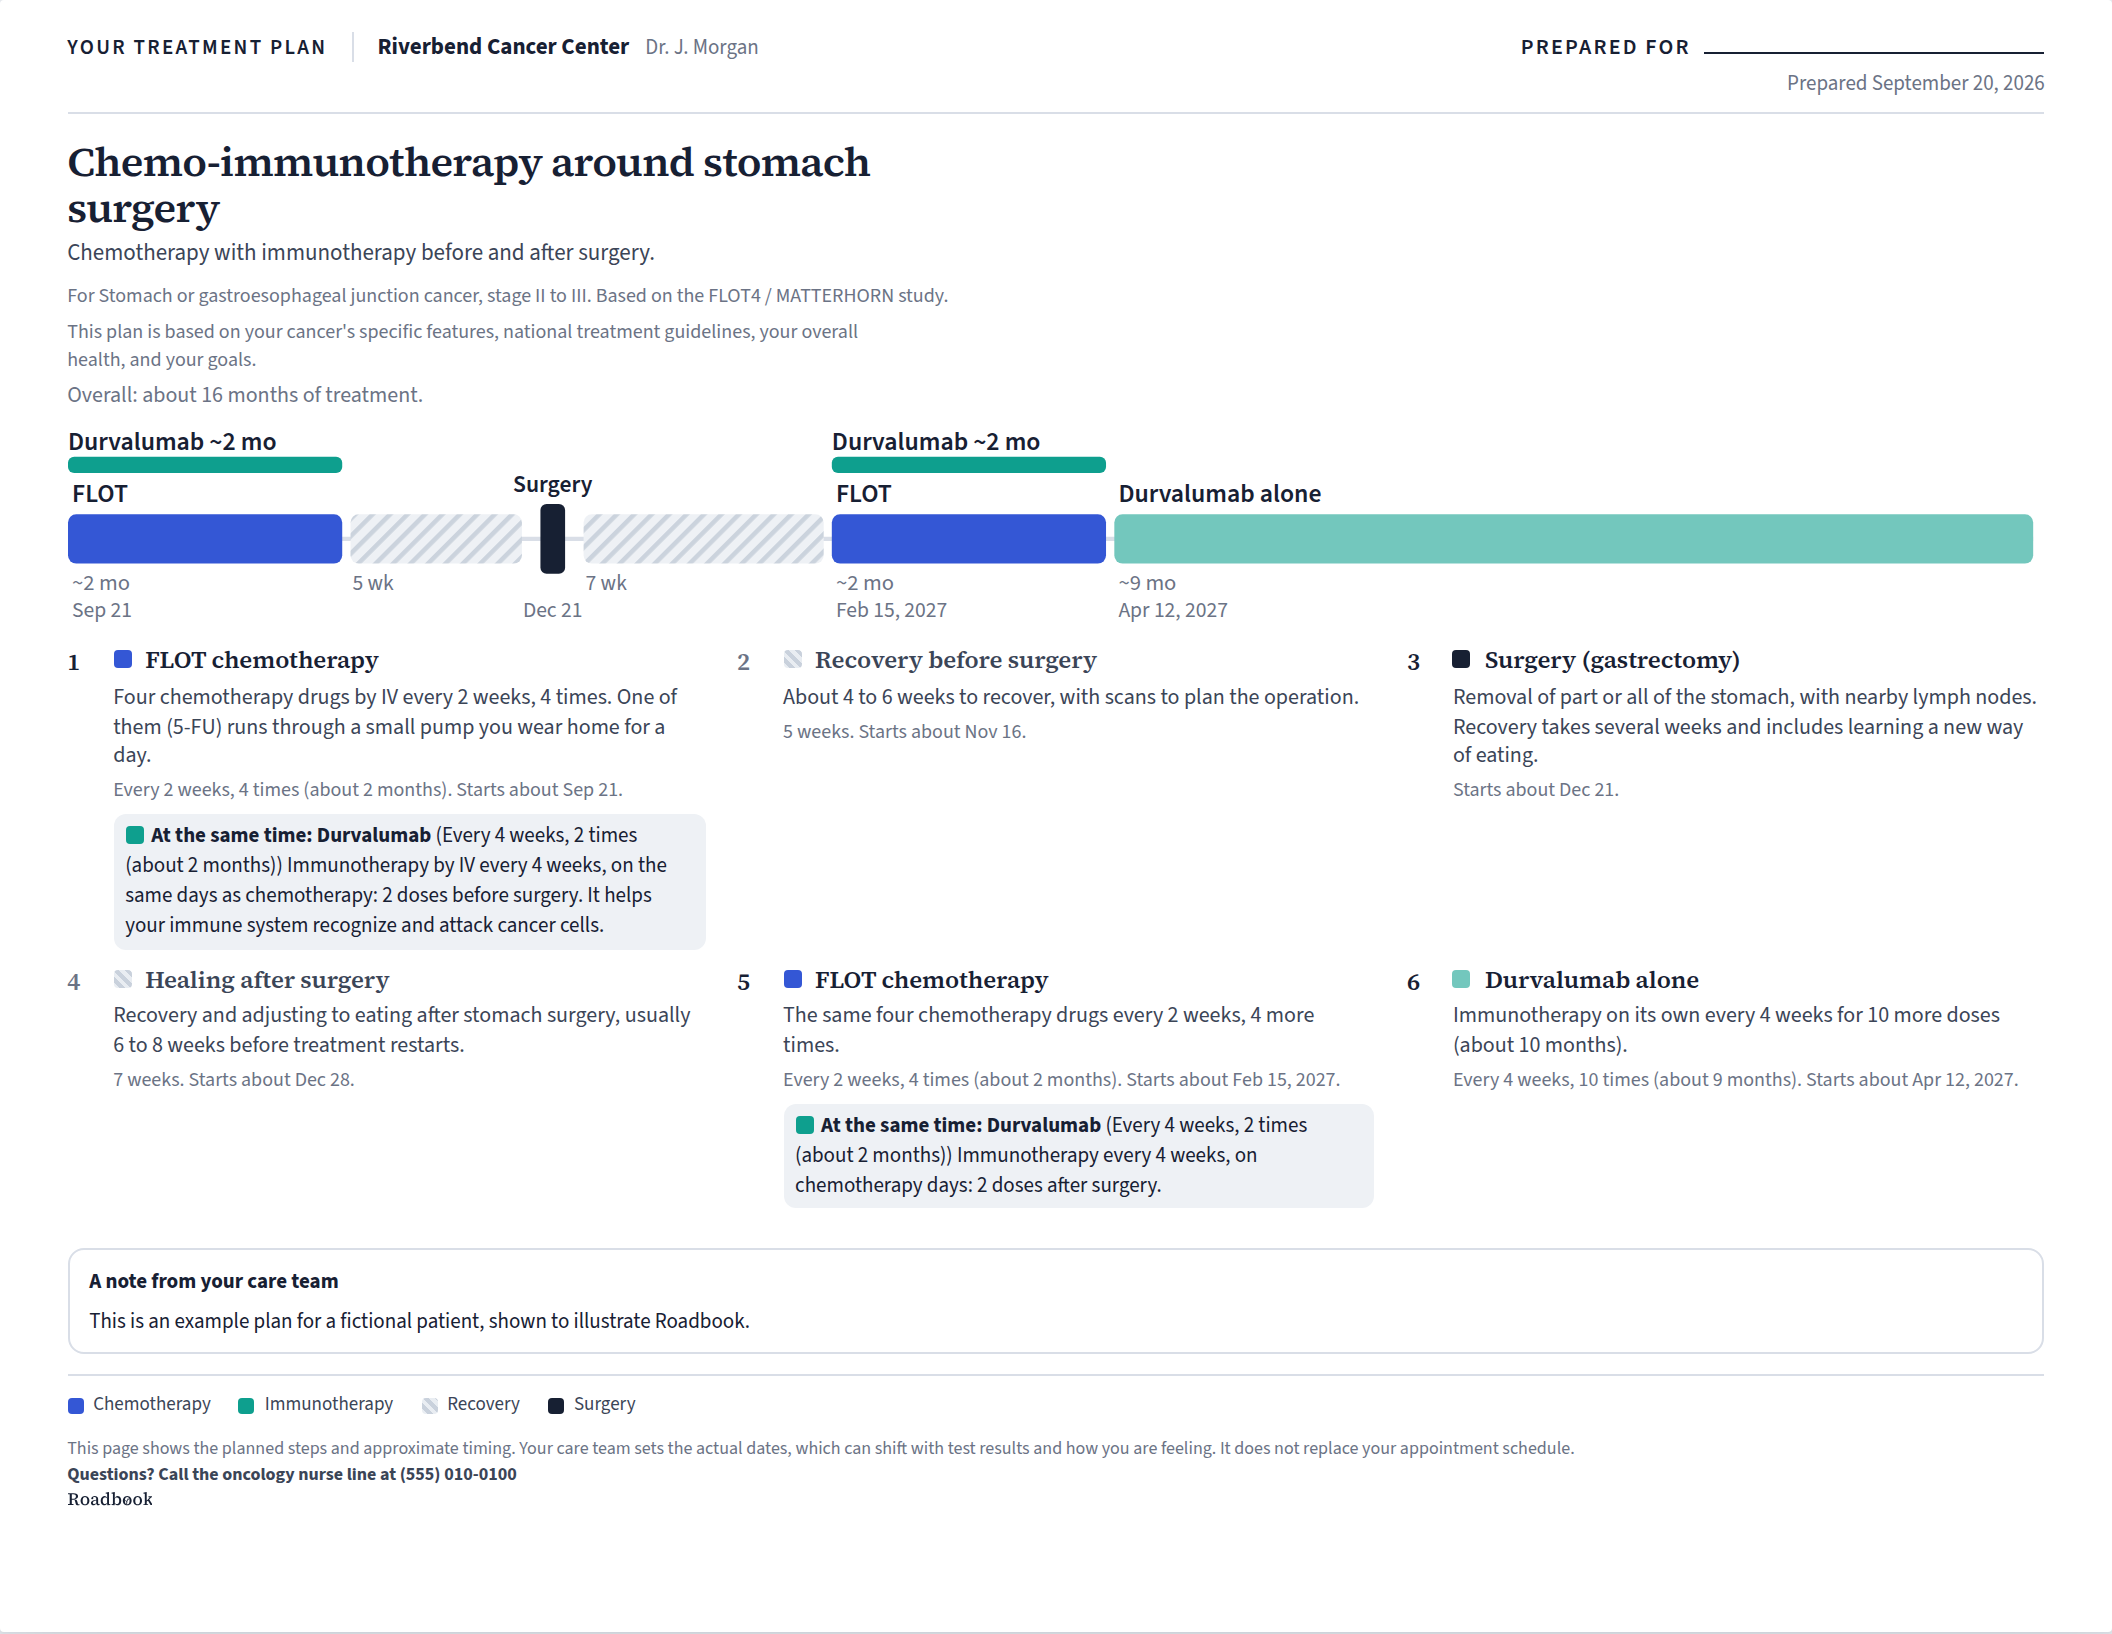
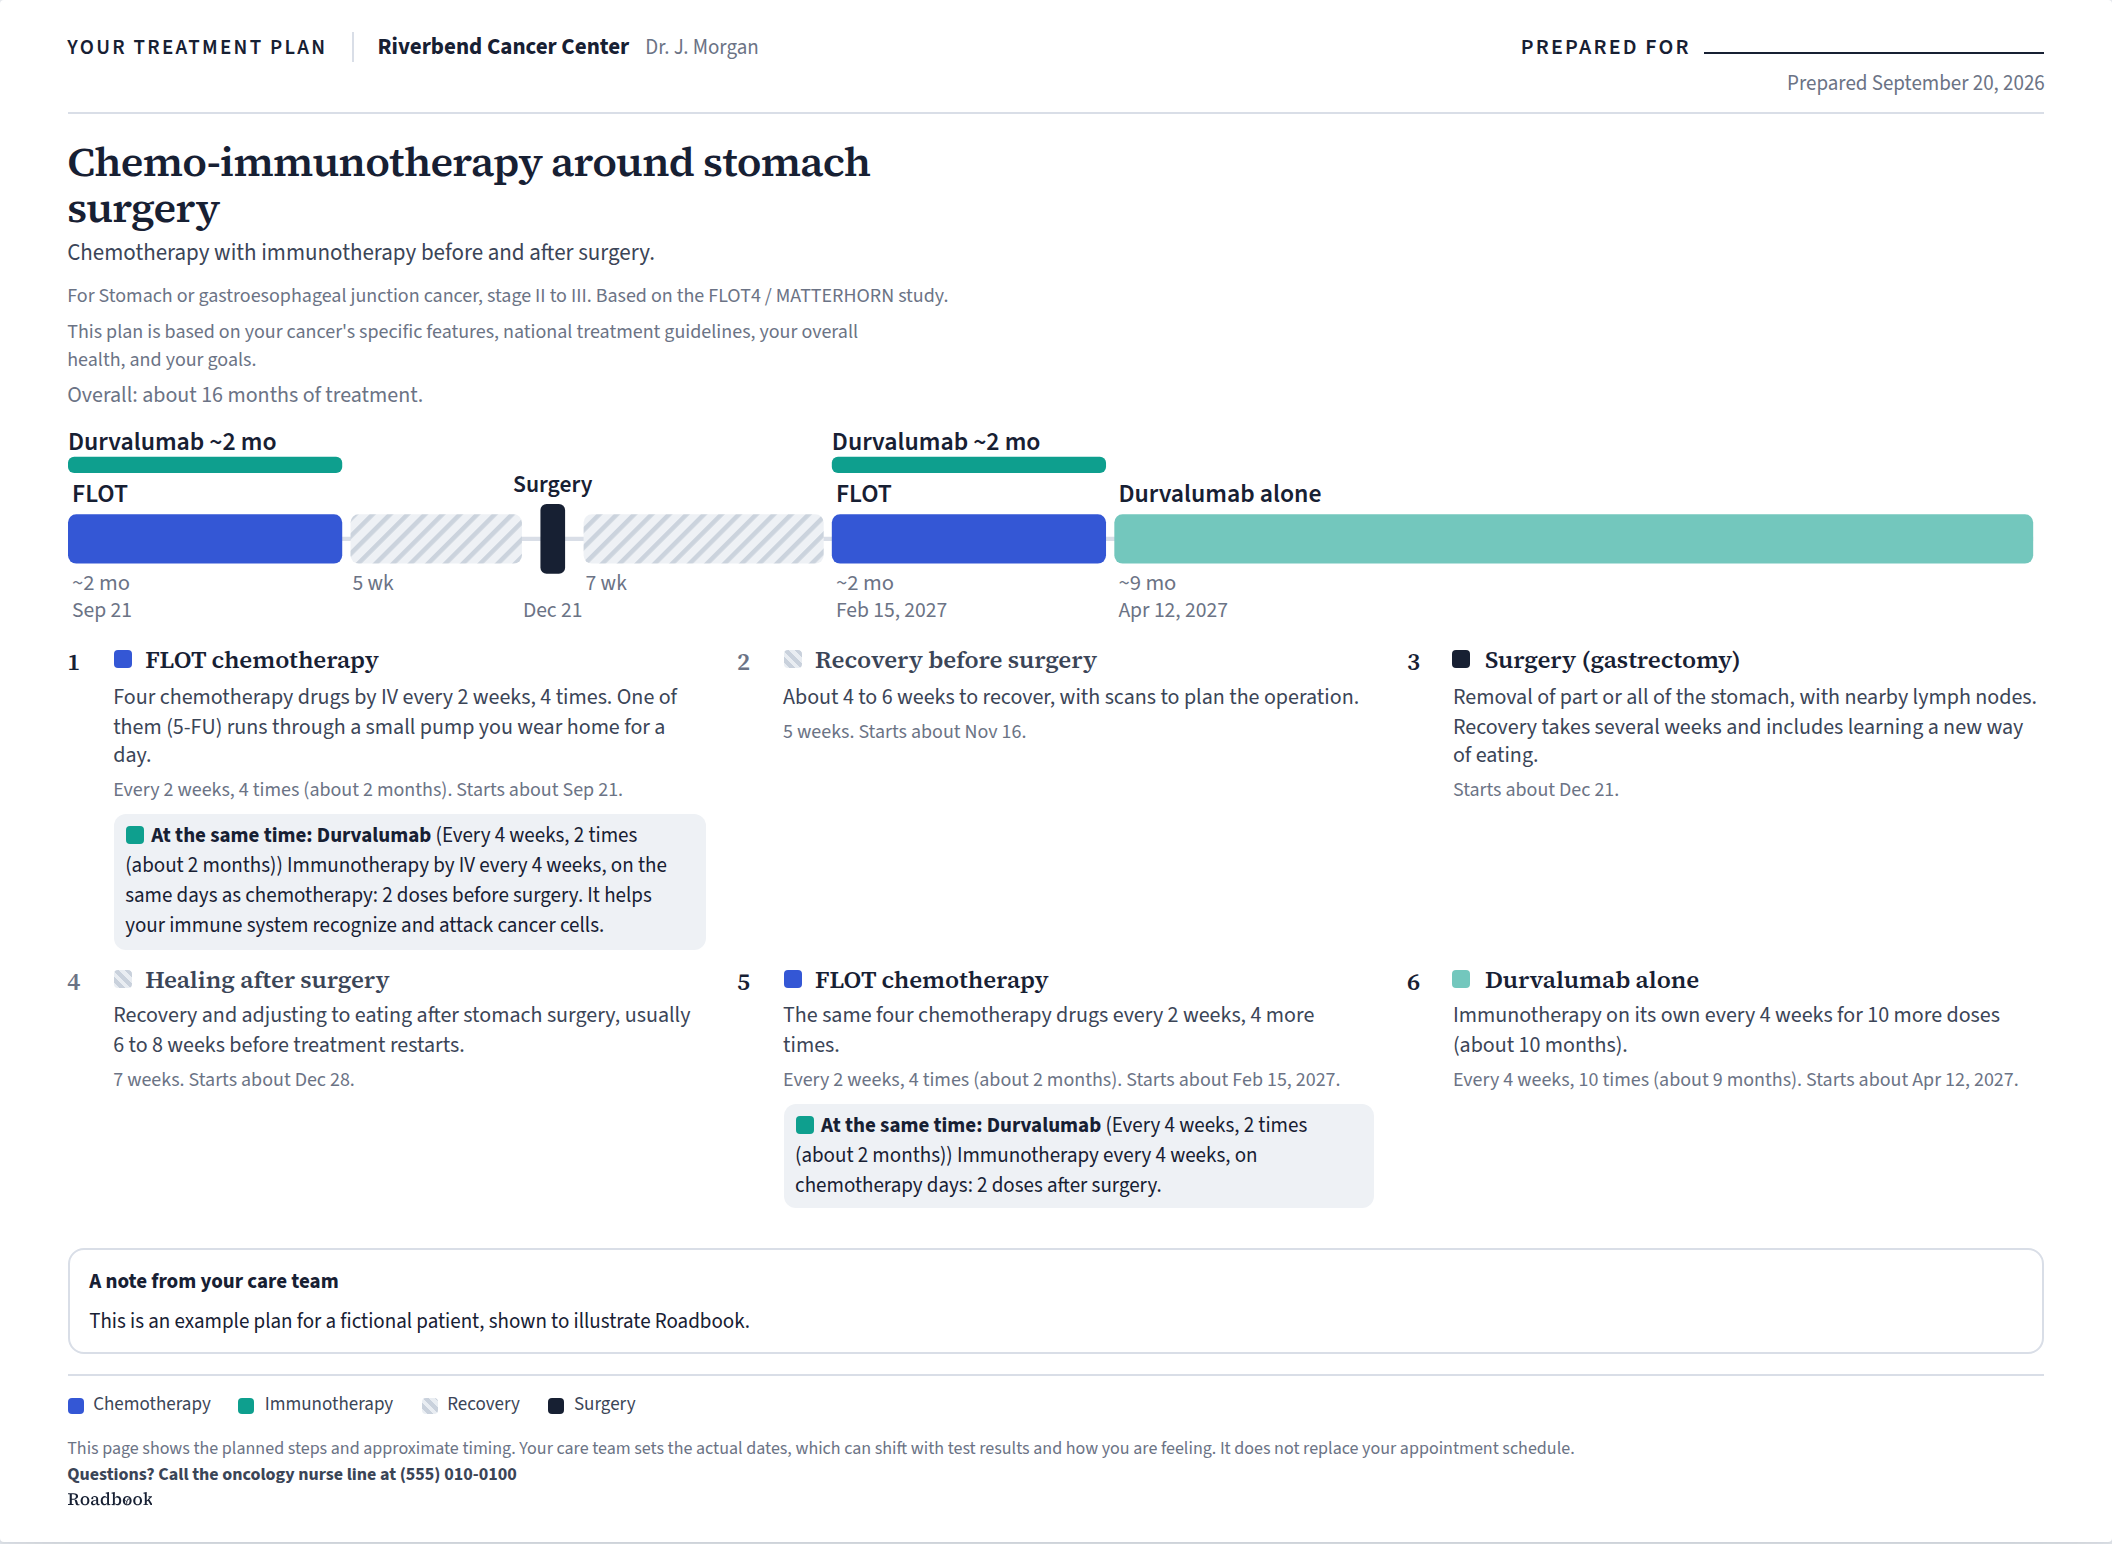
Landing page examples at full-size type
The hero images show the layout, not a print, so they are rendered at
100% type and whitespace with the page as tall as it needs to be
(KEYNOTE-522 was at its 79% print floor and read small). Map, columns
and everything else as the page view shows them. Declared sizes updated.

Claude-Session: https://claude.ai/code/session_01Y3Tfh74JNeao5syQge4XYJ

diff --git a/index.html b/index.html
@@ -40,9 +40,9 @@
       <button type="button" role="tab" id="hstab-2" aria-controls="hs-2" aria-selected="false" data-i="2">Stomach and GEJ</button>
     </div>
     <div class="hsview" id="hsview">
-      <a class="heroimg hsslide on" id="hs-0" role="tabpanel" aria-labelledby="hstab-0" href="app.html#r=kn522&demo=1" aria-label="Open the triple-negative breast cancer example"><img src="hero.png" alt="A Roadbook treatment map for stage II to III triple-negative breast cancer: chemo-immunotherapy, surgery, a pathology decision point, then immunotherapy" width="2112" height="1634"></a>
-      <a class="heroimg hsslide" id="hs-1" role="tabpanel" aria-labelledby="hstab-1" href="app.html#r=ev303&demo=1" aria-label="Open the muscle-invasive bladder cancer example"><img data-src="hero-ev303.png" alt="A Roadbook treatment map for muscle-invasive bladder cancer: enfortumab vedotin with pembrolizumab, cystectomy, then more of both" width="2112" height="1634"></a>
-      <a class="heroimg hsslide" id="hs-2" role="tabpanel" aria-labelledby="hstab-2" href="app.html#r=flot&demo=1" aria-label="Open the stomach and gastroesophageal junction cancer example"><img data-src="hero-flot.png" alt="A Roadbook treatment map for stomach or gastroesophageal junction cancer: FLOT chemotherapy with durvalumab, surgery, then more of both" width="2112" height="1634"></a>
+      <a class="heroimg hsslide on" id="hs-0" role="tabpanel" aria-labelledby="hstab-0" href="app.html#r=kn522&demo=1" aria-label="Open the triple-negative breast cancer example"><img src="hero.png" alt="A Roadbook treatment map for stage II to III triple-negative breast cancer: chemo-immunotherapy, surgery, a pathology decision point, then immunotherapy" width="2112" height="2016"></a>
+      <a class="heroimg hsslide" id="hs-1" role="tabpanel" aria-labelledby="hstab-1" href="app.html#r=ev303&demo=1" aria-label="Open the muscle-invasive bladder cancer example"><img data-src="hero-ev303.png" alt="A Roadbook treatment map for muscle-invasive bladder cancer: enfortumab vedotin with pembrolizumab, cystectomy, then more of both" width="2112" height="1316"></a>
+      <a class="heroimg hsslide" id="hs-2" role="tabpanel" aria-labelledby="hstab-2" href="app.html#r=flot&demo=1" aria-label="Open the stomach and gastroesophageal junction cancer example"><img data-src="hero-flot.png" alt="A Roadbook treatment map for stomach or gastroesophageal junction cancer: FLOT chemotherapy with durvalumab, surgery, then more of both" width="2112" height="1544"></a>
     </div>
     <p class="hscap" id="hscap" aria-live="polite">Triple-negative breast cancer, stage II to III &middot; KEYNOTE-522</p>
   </div>
@@ -93,7 +93,7 @@
 <section id="compare"><div class="wrap">
   <h2 style="font-size:24px">Comparing two options</h2>
   <p class="sub">When more than one regimen is reasonable, the decision visit is easier with both on one time scale. Months, visits, and the trade-offs, side by side.</p>
-  <div class="imgcard" style="margin-top:16px"><img src="compare.png" alt="A comparison page for stage III HER2-positive breast cancer, showing two regimens side by side with their timelines, total months, visit counts, advantages and trade-offs" width="2112" height="1634"></div>
+  <div class="imgcard" style="margin-top:16px"><img src="compare.png" alt="A comparison page for stage III HER2-positive breast cancer, showing two regimens side by side with their timelines, total months, visit counts, advantages and trade-offs" width="2112" height="1202"></div>
   <p class="more-link"><a class="btn small" href="app.html#cmp=demo" style="color:#fff">Open this comparison</a> <a class="btn sec small" href="app.html">Build your own</a></p>
 </div></section>
 
